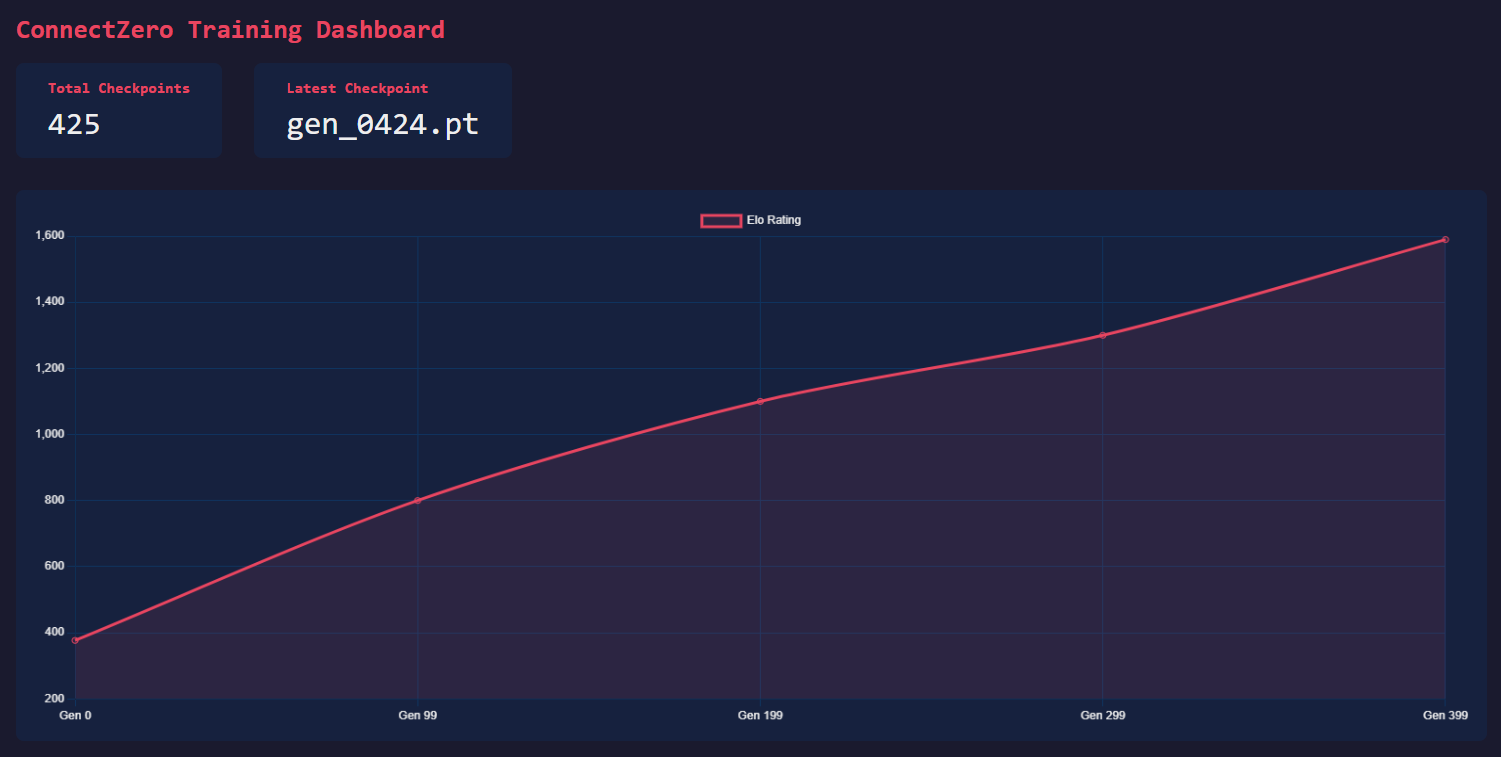
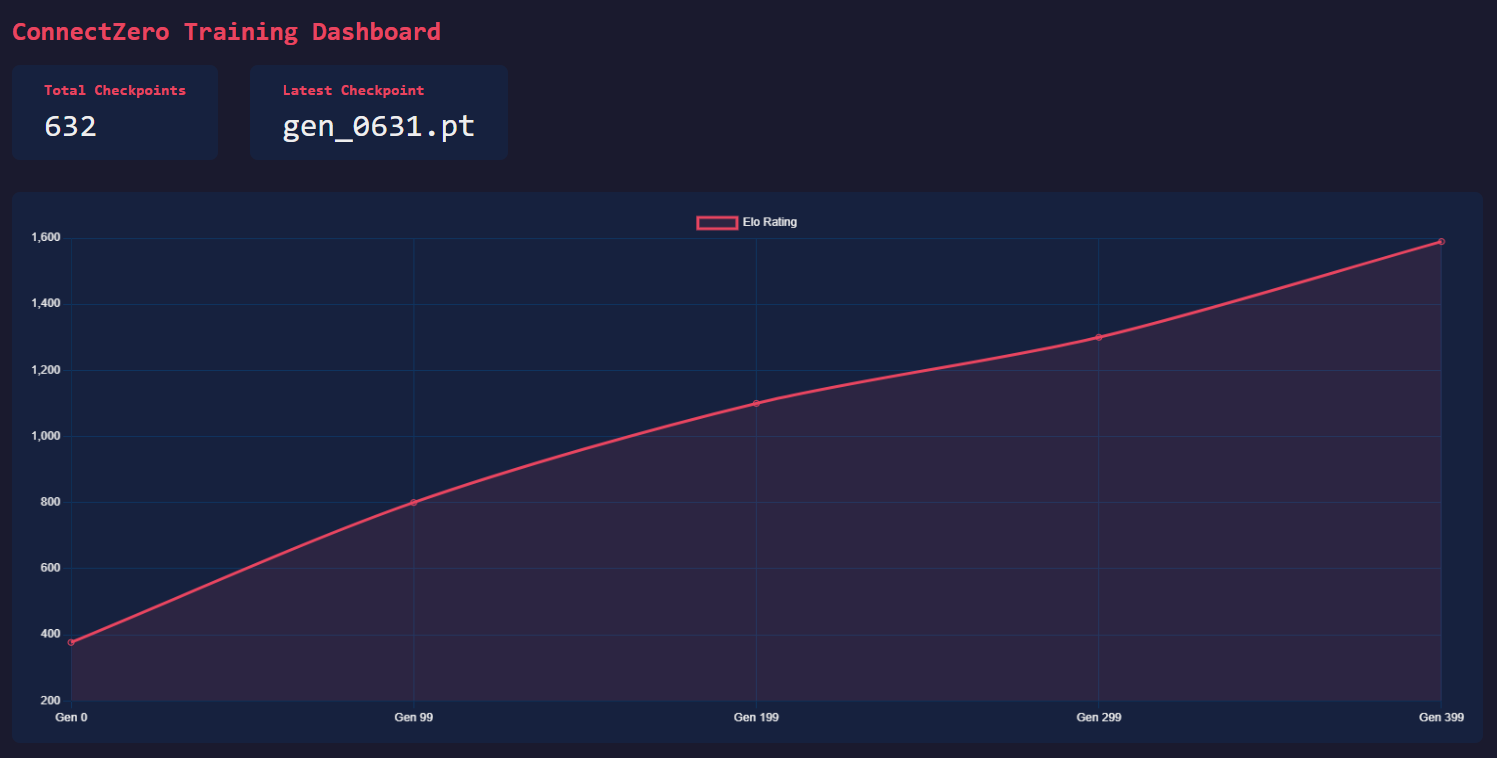
updated Elo numbers after 631 iterations, screenshots added

diff --git a/dashboard/app/views.py b/dashboard/app/views.py
@@ -37,10 +37,11 @@ def api_checkpoints(request):
 def api_elo(request):
     # Return hardcoded Elo data for now — Week 6 Session 4 will make this dynamic
     data = [
-        {"generation": 0, "elo": 376.7},
-        {"generation": 99, "elo": 800.0},
-        {"generation": 199, "elo": 1100.0},
-        {"generation": 299, "elo": 1300.0},
-        {"generation": 399, "elo": 1589.7},
-    ]
+    {"generation": 0, "elo": 344.8},
+    {"generation": 126, "elo": 953.9},
+    {"generation": 252, "elo": 1087.9},
+    {"generation": 378, "elo": 1247.9},
+    {"generation": 504, "elo": 1008.5},
+    {"generation": 631, "elo": 1523.6},
+]
     return JsonResponse({"elo_history": data})

diff --git a/README.md b/README.md
@@ -15,10 +15,10 @@ An AlphaZero-style self-play system that trains a Connect Four agent from scratc
 
 | Metric | Value |
 |---|---|
-| Training generations | 425 |
-| Final Elo | 1589.7 |
-| Random baseline Elo | 376.7 |
-| Elo improvement | +1213 points |
+| Training generations | 631 |
+| Final Elo | 1523.6 |
+| Random baseline Elo | 344.8 |
+| Elo improvement | +1178 points |
 | Win rate vs random | 100% (100/100 games) |
 | Win rate vs heuristic | 100% (100/100 games) |
 | Win rate vs minimax-depth-2 | 100% (100/100 games) |